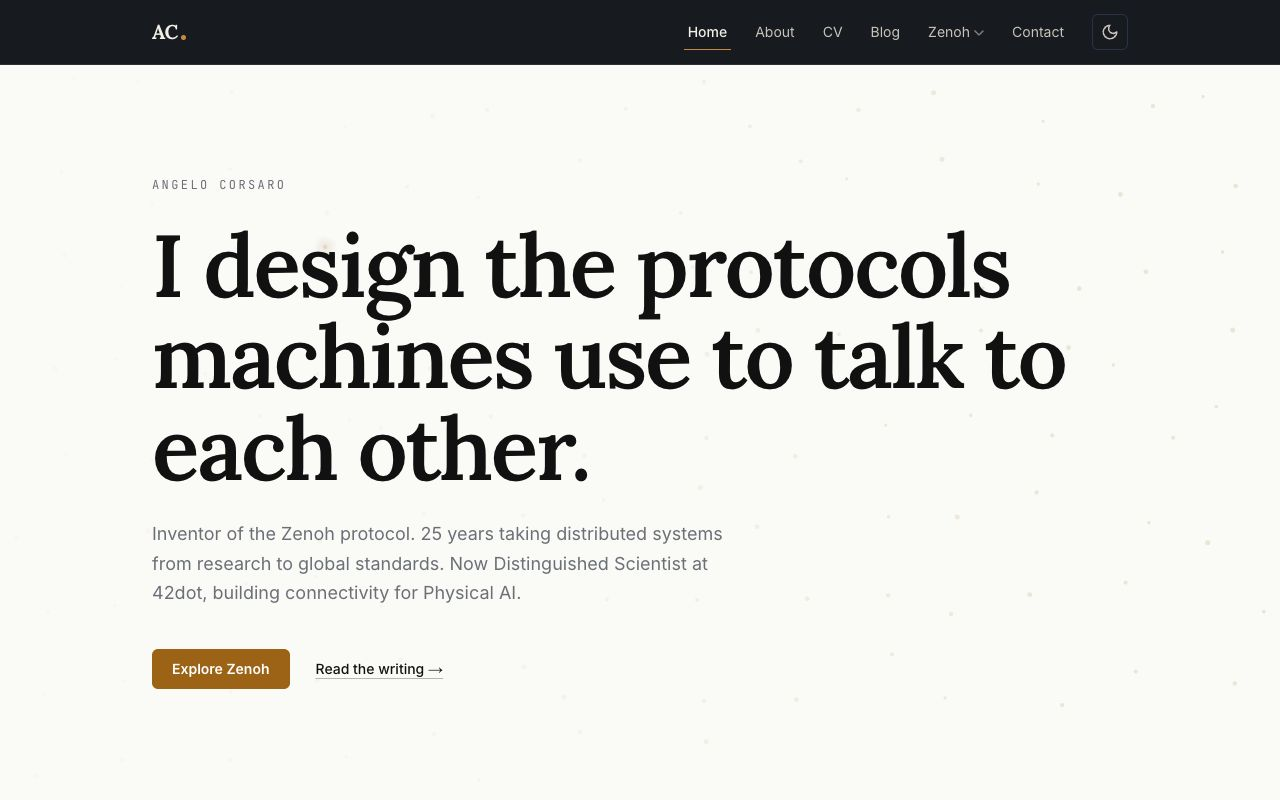
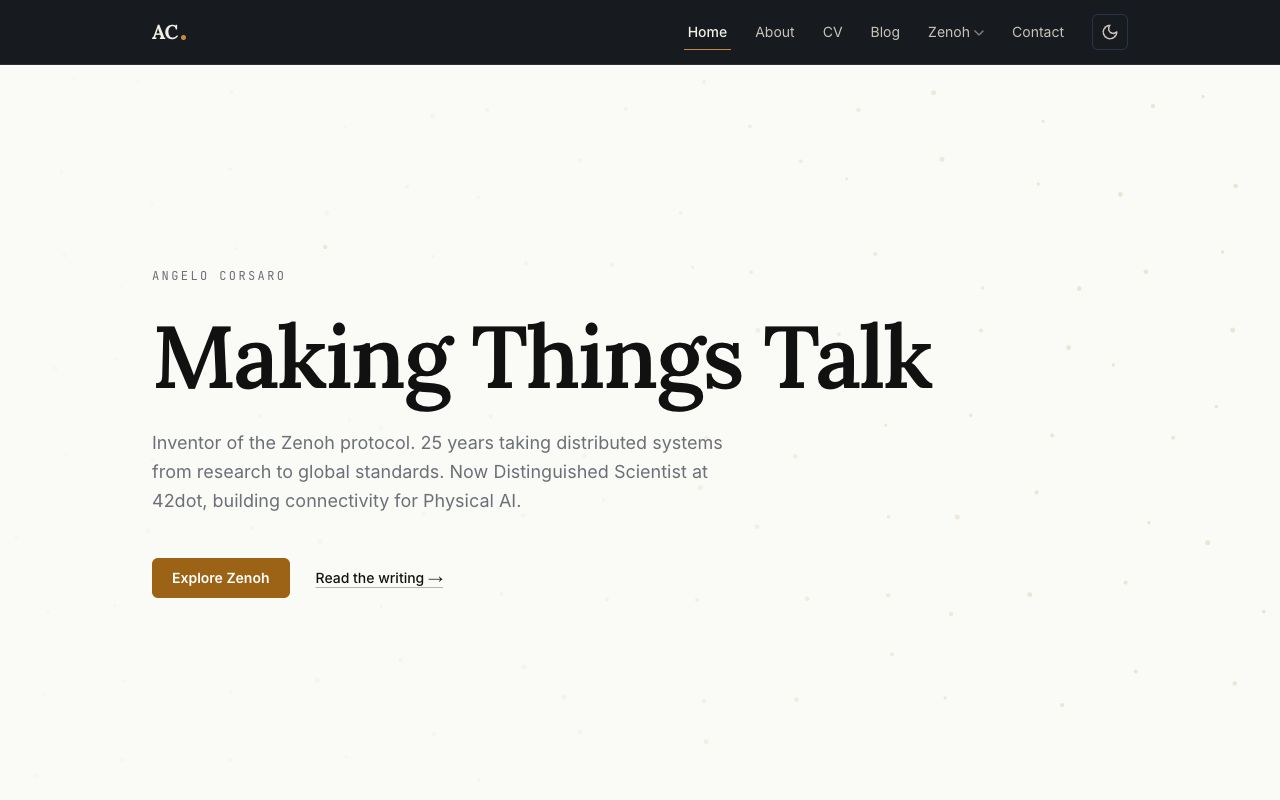
docs(newlook): refresh after screenshots and LCP note for the new headline

Changed region(s): [[0.0938, 0.2812, 0.8438, 0.75], [0.0938, 0.8125, 0.3438, 0.875], [0.125, 0.2188, 0.2188, 0.25]]

diff --git a/docs/newlook/baseline.md b/docs/newlook/baseline.md
@@ -37,13 +37,13 @@ Same method, same machine, same server.
 | `/zenoh/` | mobile | 97 | **100** | 100 | 100 | 2.6 s | 0 | 10 ms | — |
 | `/zenoh/` | desktop | 100 | **100** | 100 | 100 | 0.5 s | 0 | 0 ms | — |
 
-`/` mobile was run twice (97 / 97). Targets — Perf ≥ 95, A11y = 100, BP ≥ 95, SEO = 100 — are met.
+`/` mobile was run twice (97 / 97), and three more times after the headline change (95 / 97 / 97). Targets — Perf ≥ 95, A11y = 100, BP ≥ 95, SEO = 100 — are met.
 
 ## Other checks
 
 | Check | Result |
 |---|---|
-| LCP element on `/` | The hero headline (mobile and desktop). Before: the header "AC" wordmark on mobile. |
+| LCP element on `/` | Desktop: the hero headline. Mobile: the supporting paragraph — after the switch to the one-line "Making Things Talk" headline, five lines of 18px text cover more of a 390px screen than one line of 38px serif (before: the header "AC" wordmark). Both are server-rendered text; mobile LCP is unchanged at 2.6 s. |
 | CLS | 0 on every page measured. |
 | Firefly Sync cost | rAF callback p95 **0.6 ms**, max 1.2 ms at 1280px (120 dots); p95 0.2 ms at 390px (60 dots); Chrome with **4× CPU throttle** on an Apple-silicon Mac — an emulation of mid-range mobile, not a real device. Chunk: 3.4 KB raw, **1.7 KB gzipped**. |
 | Animation pauses | 0 rAF callbacks while the hero is scrolled off screen. |
